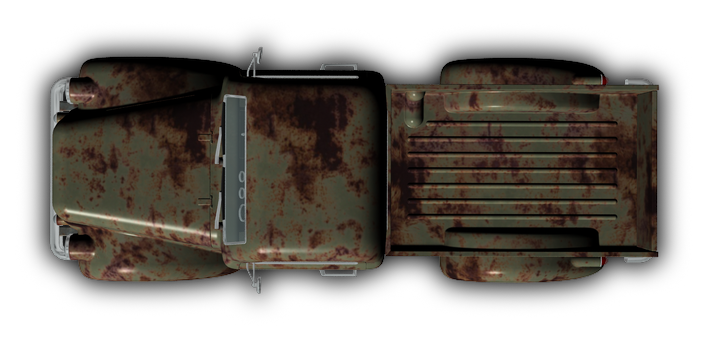
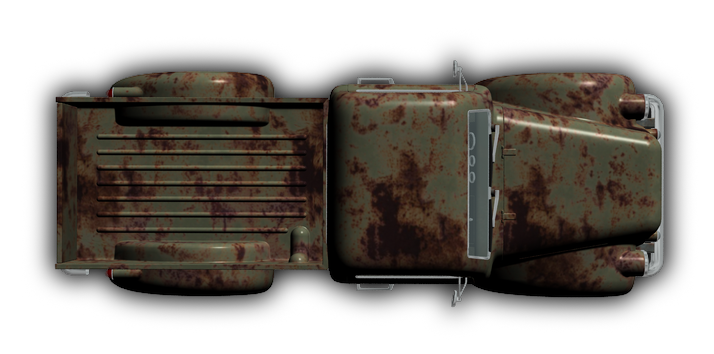
Adding coind checkpoint

diff --git a/src/init.js b/src/init.js
@@ -18,6 +18,15 @@ const config = {
             }
         }
     },
+    plugins: {
+        scene: [
+          {
+            plugin: PhaserMatterCollisionPlugin, // The plugin class
+            key: "matterCollision", // Where to store in Scene.Systems, e.g. scene.sys.matterCollision
+            mapping: "matterCollision" // Where to store in the Scene, e.g. scene.matterCollision
+          }
+        ]
+    },
     scene: {
         preload: preload,
         create: create,
@@ -28,39 +37,64 @@ const config = {
 var game = new Phaser.Game(config);
 var cursors;
 var car;
+var coin;
 var velocity = 0;
 
 function preload() {
-    this.load.image("car", "./assets/carroInicio.png");
+    this.load.image("car", "./assets/car.png");
+    this.load.image("coin", "./assets/coin.png");
     this.load.image('background', './assets/track.png');
 }
 
 function create() {
     background = this.add.image(MAX_WIDTH/2, MAX_HEIGHT/2, 'background');
-    car = this.matter.add.image(600, 200, "car");
+    coin = this.matter.add.image(MAX_WIDTH-MAX_WIDTH/1.5,MAX_HEIGHT/1.21,'coin');
+    car  = this.matter.add.image(MAX_WIDTH-MAX_WIDTH/2.55, MAX_HEIGHT/1.26, "car");
+    
+    car.rotation= 3.15;
     car.setFixedRotation();
     car.setFrictionAir(0.01);
     car.setMass(30);
     this.matter.world.setBounds(0, 0, MAX_WIDTH, MAX_HEIGHT);
-
-    //background.setScale(1.6, 1.9);
-    car.setScale(.2, .2);
+    
+    background.setScale(1.6, 1.9);
+    coin.setScale(.1, .1);
+    car.setScale(.15, .15);
 
     cursors = this.input.keyboard.createCursorKeys();
 }
 
 function update() {
+
+    // this.matter.world.on('collisionstart', function (event, coin, car) {
+    //     //this.matter.world.remove(coin);
+    //     console.log("que hubo prro");
+    //     coin.destroy();
+    // });
+
+    // this.matterCollision.addOnCollideStart({
+    //     objectA: car,
+    //     objectB: coin,
+    //     callback: function(eventData) {
+    //         this.matter.world.remove(coin);
+    //         coin.destroy();
+    //     },
+    //     context: this 
+    // });
+
     if (cursors.left.isDown) {
-        car.angle -= 3;
+        car.angle -= 2.5;
     }
     else if (cursors.right.isDown) {
-        car.angle += 3;
+        car.angle += 2.5;
     }
 
     if (cursors.up.isDown) {
-        car.thrustBack(0.0006);
+        //car.thrust(0.0006);
+        car.thrust(0.0004);
     }
     else if (cursors.down.isDown) {
-        car.thrust(0.0006);
+        //car.thrustBack(0.0006);
+        car.thrustBack(0.0004);
     }
 }

diff --git a/index.html b/index.html
@@ -9,6 +9,7 @@
 <body>
     <div class="container"></div>
     <script src="./node_modules/phaser/dist/phaser.js"></script>
+    <script src="//cdn.jsdelivr.net/npm/phaser-matter-collision-plugin"></script>
     <script src="./src/init.js"></script>
 </body>
 </html>
